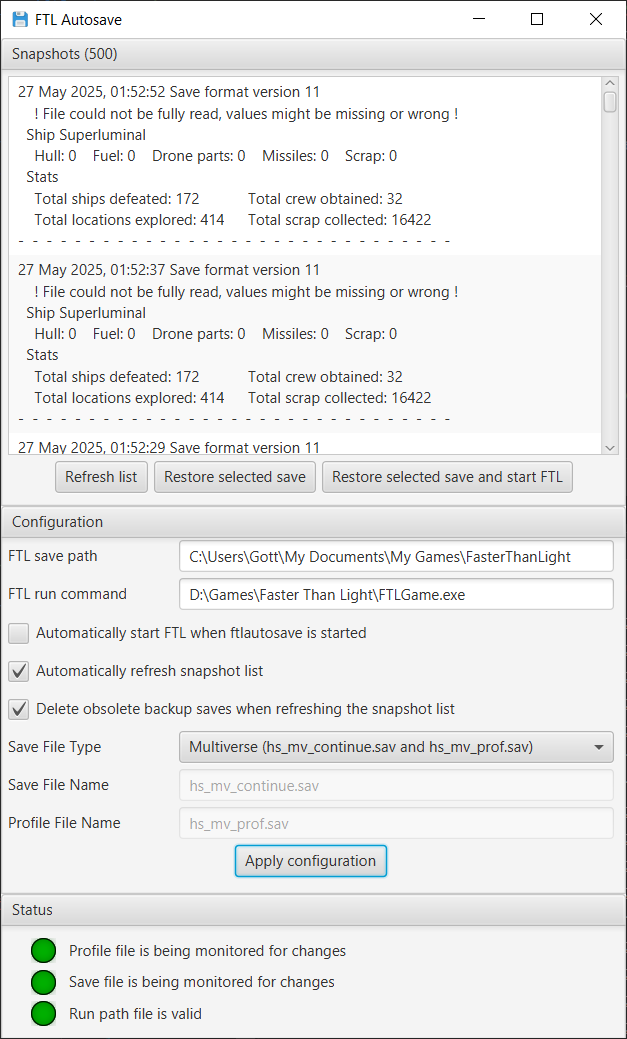
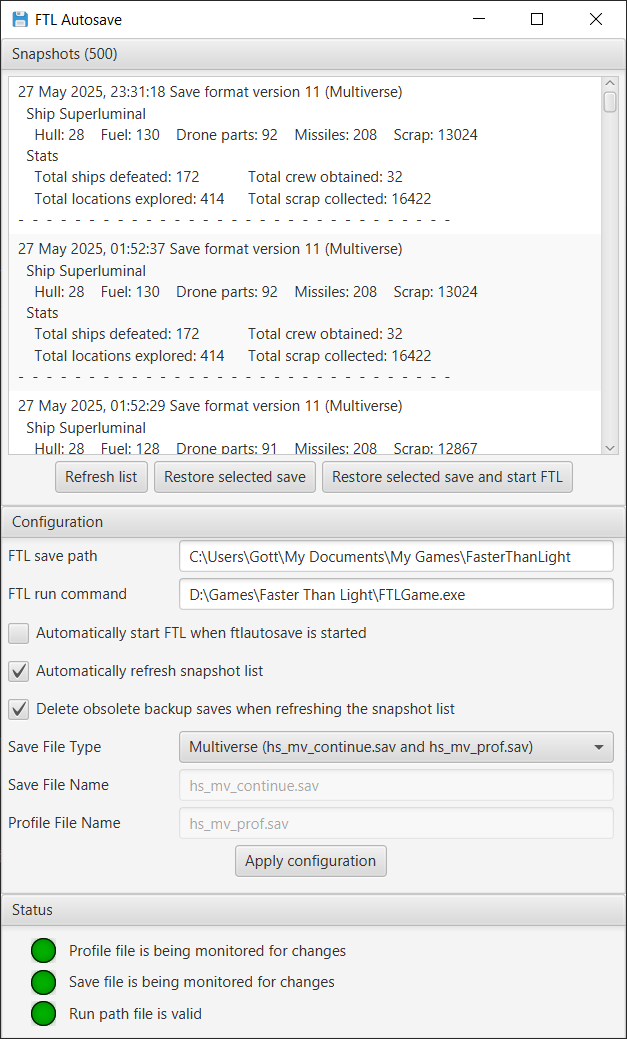
Add new mapping for Multiverse save files to try in case vanilla save format reading fails

diff --git a/src/main/java/org/synogen/ftlautosave/save/FtlMapping.java b/src/main/java/org/synogen/ftlautosave/save/FtlMapping.java
@@ -37,7 +37,7 @@ public class FtlMapping {
         this.structure = structure.replaceAll("\\s","");
     }
 
-    public void parse(Path path) throws IOException, FTlSaveFormatInvalid {
+    public void parse(Path path) throws IOException, FTLSaveFormatInvalid {
         SeekableByteChannel channel = Files.newByteChannel(path, StandardOpenOption.READ);
         channel.position(startAt);
 
@@ -46,7 +46,7 @@ public class FtlMapping {
         channel.close();
     }
 
-    private void parseStructure(SeekableByteChannel channel, String structure) throws IOException, FTlSaveFormatInvalid {
+    private void parseStructure(SeekableByteChannel channel, String structure) throws IOException, FTLSaveFormatInvalid {
         Pattern definition = Pattern.compile("(s)|(i)|(\\(.+?\\)[s|i])|(\\[(\\d+|x)(.+?)\\])");
         Matcher matcher = definition.matcher(structure);
 
@@ -81,10 +81,10 @@ public class FtlMapping {
      * @param structure
      * @throws IOException
      */
-    private void skipVariableStructures(SeekableByteChannel channel, String structure) throws IOException, FTlSaveFormatInvalid {
+    private void skipVariableStructures(SeekableByteChannel channel, String structure) throws IOException, FTLSaveFormatInvalid {
         Integer times = readInteger(channel);
         if (times < 0 || times > MAX_SKIP_TIMES) {
-            throw new FTlSaveFormatInvalid(channel.position() - 4, times);
+            throw new FTLSaveFormatInvalid(channel.position() - 4, times);
         }
         skipStructureTimes(channel, structure, times);
     }
@@ -95,7 +95,7 @@ public class FtlMapping {
      * @param structure structure string using 'i' for integer and 's' for string, so "iss" would read one integer and two variable length strings
      * @throws IOException
      */
-    private void skipStructure(SeekableByteChannel channel, String structure) throws IOException, FTlSaveFormatInvalid {
+    private void skipStructure(SeekableByteChannel channel, String structure) throws IOException, FTLSaveFormatInvalid {
         char[] struct = structure.toCharArray();
         for (int i = 0; i < struct.length; i++) {
             switch (struct[i]) {
@@ -112,7 +112,7 @@ public class FtlMapping {
      * @param times
      * @throws IOException
      */
-    private void skipStructureTimes(SeekableByteChannel channel, String structure, Integer times) throws IOException, FTlSaveFormatInvalid {
+    private void skipStructureTimes(SeekableByteChannel channel, String structure, Integer times) throws IOException, FTLSaveFormatInvalid {
         for (int i = 0; i < times; i++) {
             skipStructure(channel, structure);
         }
@@ -137,10 +137,10 @@ public class FtlMapping {
      * @return
      * @throws IOException
      */
-    private String readNextString(SeekableByteChannel channel) throws IOException, FTlSaveFormatInvalid {
+    private String readNextString(SeekableByteChannel channel) throws IOException, FTLSaveFormatInvalid {
         Integer length = readInteger(channel);
         if (length <= 0 || length> MAX_READ_BUFFER) {
-            throw new FTlSaveFormatInvalid(channel.position() - 4, length);
+            throw new FTLSaveFormatInvalid(channel.position() - 4, length);
         }
         ByteBuffer buffer = ByteBuffer.allocate(length);
         channel.read(buffer);

diff --git a/src/main/java/org/synogen/ftlautosave/save/FtlSaveFile.java b/src/main/java/org/synogen/ftlautosave/save/FtlSaveFile.java
@@ -6,8 +6,6 @@ import lombok.Getter;
 import org.synogen.ftlautosave.App;
 
 import java.io.IOException;
-import java.nio.ByteBuffer;
-import java.nio.ByteOrder;
 import java.nio.channels.SeekableByteChannel;
 import java.nio.file.Files;
 import java.nio.file.Path;
@@ -51,9 +49,27 @@ public class FtlSaveFile {
                         "(scrap)i"));
     }
 
+    private final HashMap<String, FtlMapping> ALTERNATIVE_MAPPINGS = new HashMap<>();
+    {
+        ALTERNATIVE_MAPPINGS.put("11MV", new FtlMapping(16,
+                "(totalShipsDefeated)i" +
+                        "(totalLocationsExplored)i" +
+                        "(totalScrapCollected)i" +
+                        "(totalCrewObtained)i" +
+                        "(shipname)s" +
+                        "(shiptype)s" +
+                        "ii[xsi]iisss[xss]iiii" +
+                        "(hull)i" +
+                        "(fuel)i" +
+                        "(droneParts)i" +
+                        "(missiles)i" +
+                        "(scrap)i"));
+    }
+
     private boolean invalidFile = false;
 
     private Integer version;
+    private String saveModifier;
 
     private Integer totalShipsDefeated;
     private Integer totalLocationsExplored;
@@ -77,7 +93,7 @@ public class FtlSaveFile {
             version = FtlMapping.readInteger(channel);
             channel.close();
 
-            FtlMapping mapping = SUPPORTED_VERSIONS.get(version);;
+            FtlMapping mapping = SUPPORTED_VERSIONS.get(version);
             if (!SUPPORTED_VERSIONS.containsKey(version)) {
                 int distance = Integer.MAX_VALUE;
                 for (Integer supported : SUPPORTED_VERSIONS.keySet()) {
@@ -90,10 +106,17 @@ public class FtlSaveFile {
 
             try {
                 mapping.parse(path);
-            } catch (FTlSaveFormatInvalid fTlSaveFormatInvalid) {
-                invalidFile = true;
-                var variablesRead = mapping.variablesRead();
-                App.log.log(Level.FINE, path.getFileName().toString() + " appears to contain an unsupported save format" + (variablesRead > 0? " (only " + variablesRead + " variables read)" : ""));
+            } catch (FTLSaveFormatInvalid vanillaSaveFormatInvalid) {
+                // try Multiverse mapping instead if vanilla fails
+                mapping = ALTERNATIVE_MAPPINGS.get("11MV");
+                saveModifier = "Multiverse";
+                try {
+                    mapping.parse(path);
+                } catch (FTLSaveFormatInvalid mvSaveFormatInvalid) {
+                    invalidFile = true;
+                    var variablesRead = mapping.variablesRead();
+                    App.log.log(Level.FINE, path.getFileName().toString() + " appears to contain an unsupported save format" + (variablesRead > 0? " (only " + variablesRead + " variables read)" : ""));
+                }
             }
 
             totalShipsDefeated = mapping.getInteger("totalShipsDefeated");

diff --git a/src/main/java/org/synogen/ftlautosave/save/BackupSave.java b/src/main/java/org/synogen/ftlautosave/save/BackupSave.java
@@ -37,7 +37,7 @@ public class BackupSave {
     @Override
     public String toString() {
         DateTimeFormatter formatter = DateTimeFormatter.ofLocalizedDateTime(FormatStyle.MEDIUM).withZone(ZoneId.systemDefault());
-        return formatter.format(timestamp) + " Save format version " + saveContent.getVersion() +
+        return formatter.format(timestamp) + " Save format version " + saveContent.getVersion() + (saveContent.getSaveModifier().length() > 0? " (" + saveContent.getSaveModifier() + ")" : "") +
                 (
                         saveContent.isInvalidFile() ?
                         "\n    " +

diff --git a/src/main/java/org/synogen/ftlautosave/save/FTLSaveFormatInvalid.java b/src/main/java/org/synogen/ftlautosave/save/FTLSaveFormatInvalid.java
@@ -1,8 +1,8 @@
 package org.synogen.ftlautosave.save;
 
-public class FTlSaveFormatInvalid extends Throwable {
+public class FTLSaveFormatInvalid extends Throwable {
 
-    public FTlSaveFormatInvalid(long position, Integer value) {
+    public FTLSaveFormatInvalid(long position, Integer value) {
         super("Unexpected value " + value + " at position " + position);
     }
 }
